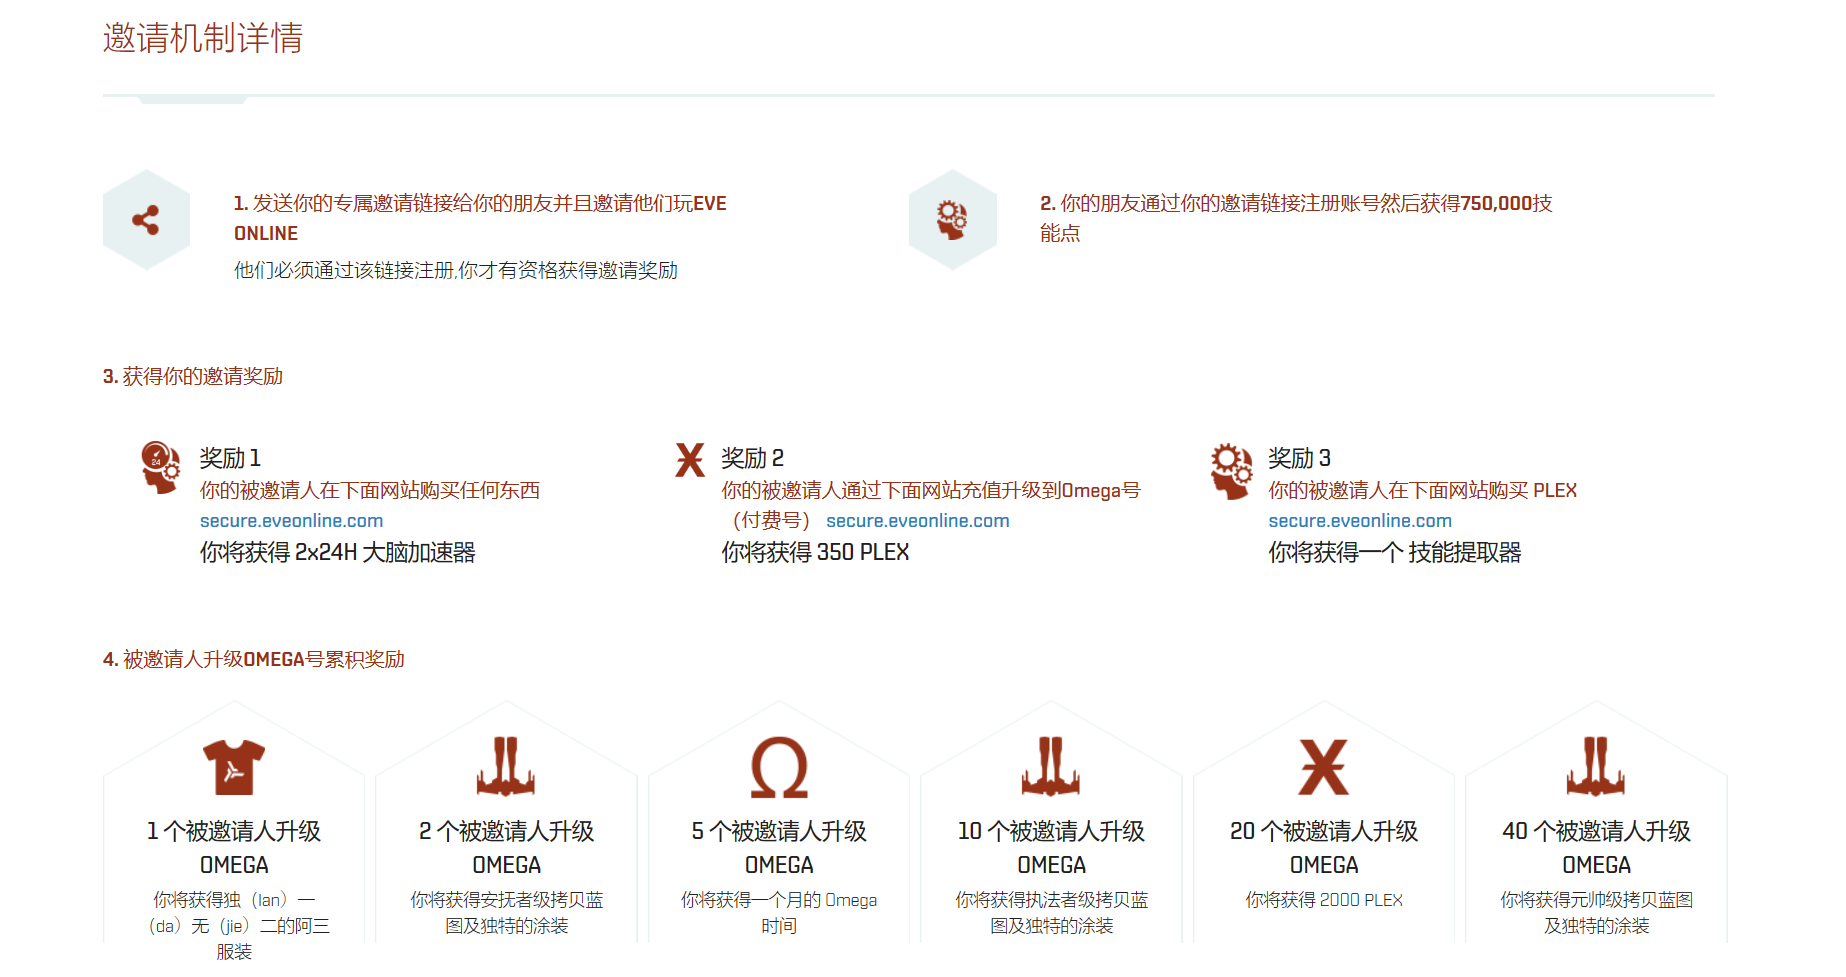
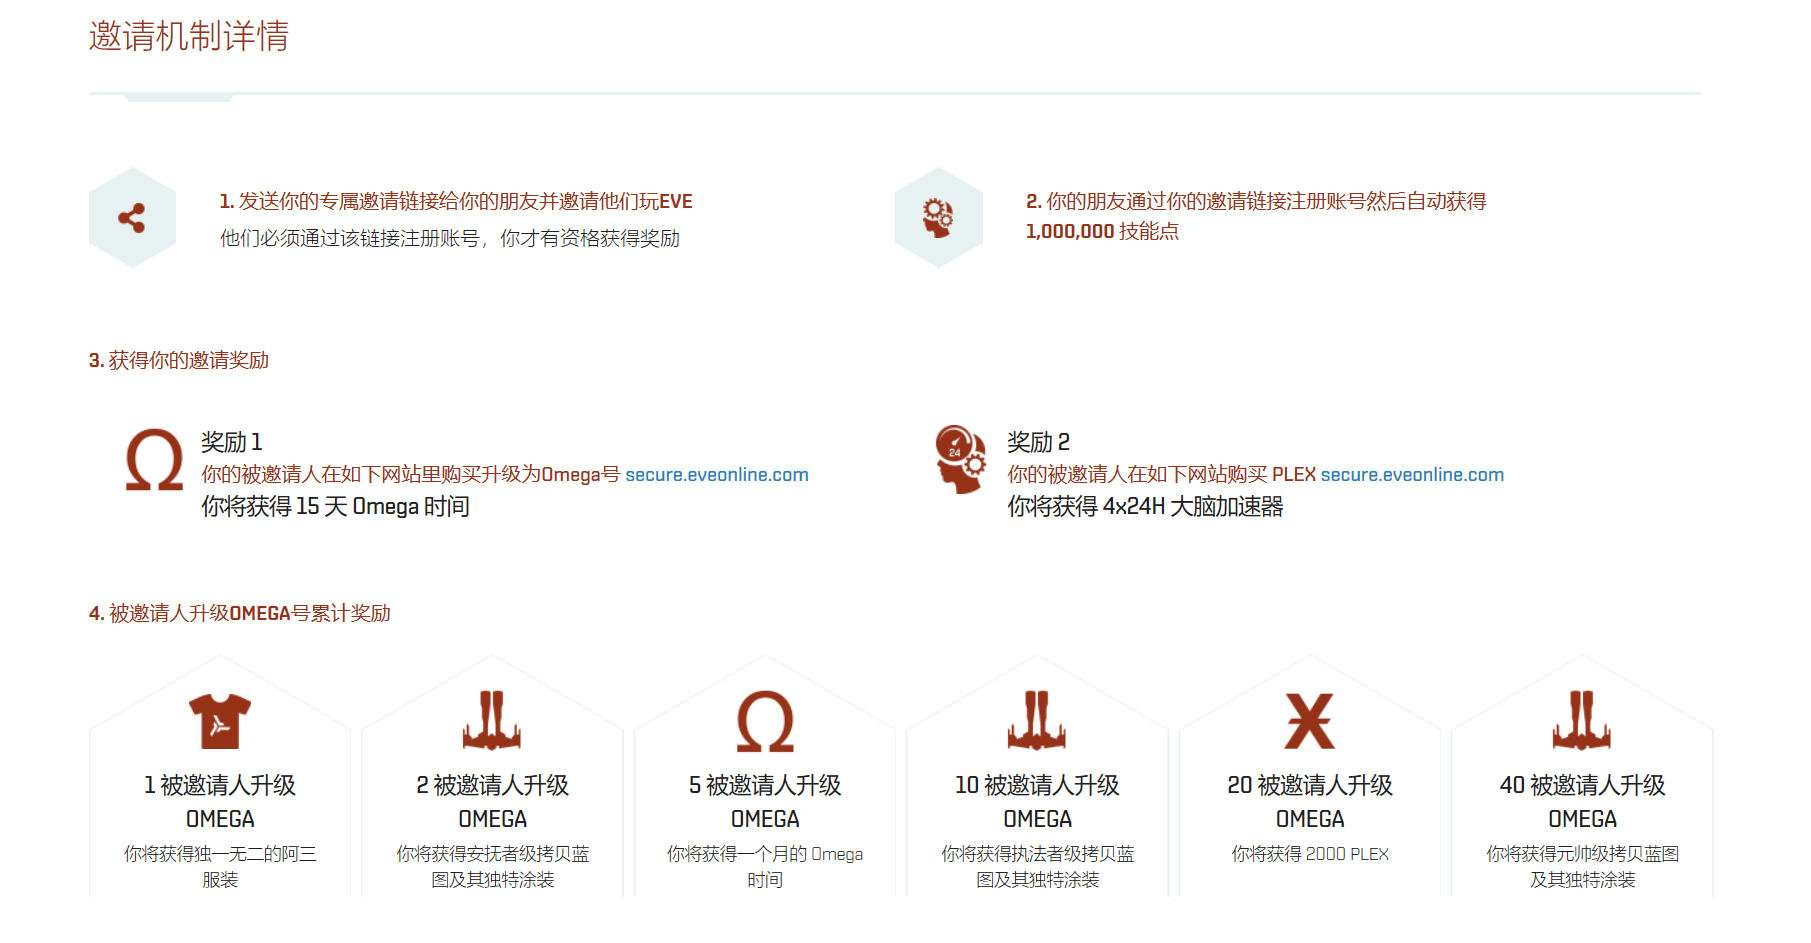
Site updated: 2019-07-31 21:58:43

diff --git a/wwweveonline/index.html b/wwweveonline/index.html
@@ -40,7 +40,7 @@
 
         </div>
         <div class="content markdown">
-            <h4 id="前置提示："><a href="#前置提示：" class="headerlink" title="前置提示："></a>前置提示：</h4><p>官网账号可以用别人的邀请链接进行注册，建号就送75万自由技能点。如果你在 <em>secure.eveonline.com</em> 上氪金，邀请人（给你链接的人）会根据你氪金内容收到大脑加速器、350 PLEX、技能提取器作为奖励。一般情况下，邀请人都会把这些东西全部反回给被邀请人（用别人链接的你），这样你就可以获得一大笔启动资金。详情见官网介绍邀请机制的网页： <em><a href="https://www.eveonline.com/recruit" target="_blank" rel="noopener">https://www.eveonline.com/recruit</a></em> </p>
+            <h4 id="前置提示："><a href="#前置提示：" class="headerlink" title="前置提示："></a>前置提示：</h4><p>官网账号可以用别人的邀请链接进行注册，建号就送100万自由技能点。如果你在 <em>secure.eveonline.com</em> 上氪金，邀请人（给你链接的人）会根据你氪金内容收到15天Omega时间、大脑加速器（视氪金物品而定）作为奖励。一般情况下，邀请人都会把这些东西或者等价ISK返回给被邀请人（用别人链接的你），这样你就可以获得一大笔启动资金。最新详情见官网介绍邀请机制的网页： <em><a href="https://www.eveonline.com/recruit" target="_blank" rel="noopener">https://www.eveonline.com/recruit</a></em> </p>
 <p><img src="/img/邀请机制.png" alt="官网邀请机制详情翻译"></p>
 <p>怎样获得邀请链接？找一些可靠的老玩家要，公司/军团/联盟CEO、<em>EVE欧服吧</em>  大吧主小吧主、EVE相关Q群群主都会提供邀请链接，这些人也比较可靠。使用别人链接注册并在 <em><a href="https://secure.eveonline.com/" target="_blank" rel="noopener">https://secure.eveonline.com/</a></em> 上氪金后，主动去找给你链接的人要奖励，邀请人获得邀请奖励是无法知道是谁氪金所来的，所以你需要主动去要。</p>
 <p>已注册完成的账号不可再用邀请链接，必须在注册前使用，且必须在 <em><a href="https://secure.eveonline.com/" target="_blank" rel="noopener">https://secure.eveonline.com/</a></em> 上氪金才有奖励。</p>

diff --git a/different/index.html b/different/index.html
@@ -53,7 +53,7 @@
 <h4 id="不同点"><a href="#不同点" class="headerlink" title="不同点"></a>不同点</h4><ul>
 <li>官网标准一个月Omega时间14.95美元（官网直接购买）<br><img src="/img/45.png" alt="官网账号时间购买"></li>
 <li>Steam标准一个月Omega时间98人民币(已涨价，58元时代一去不复返)<br><img src="/img/53.png" alt="Steam号时间购买"></li>
-<li>官网号可以用别人的邀请链接进行注册，建号就送75万自由技能点。如果你氪金，邀请人（给你链接的人）会收到350plex、加速器、技能提取器等（视氪金物品而定）作为奖励。一般情况下，邀请人都会把这些东西反回给被邀请人（用别人链接的你），这样你就相当于获得一笔额外启动资金了。</li>
+<li>官网号可以用别人的邀请链接进行注册，建号就送100万自由技能点。如果你氪金，邀请人（给你链接的人）会收到15天Omega时间、大脑加速器等（视氪金物品而定）作为奖励。一般情况下，邀请人都会把这些东西或者等价ISK返回给被邀请人（用别人链接的你），这样你就相当于获得一笔额外启动资金了。</li>
 <li>Steam号不可以用邀请链接，不过月卡比官网便宜一丢丢，氪金方式也方便，氪，往死里氪。</li>
 <li>官网号偶尔会送一次性的月卡优惠券，在官网登录账号后进入账号管理界面，右上角会有个Offers图标，点进去就可以看到优惠（随机送，新号送的概率高）</li>
 <li>…</li>

diff --git a/index.html b/index.html
@@ -133,7 +133,7 @@ EVE的启动...</p>
     <div class="else">
         <p>十一月 17, 2018</p>
         <h3><a href="/wwweveonline/" title="官网注册、下载" class="posttitle">官网注册、下载</a></h3>
-        <p>前置提示：官网账号可以用别人的邀请链接进行注册，建号就送75万自由技能点。如果你在 secure.eveonline.com 上氪金，邀请人（给你链接的人...</p>
+        <p>前置提示：官网账号可以用别人的邀请链接进行注册，建号就送100万自由技能点。如果你在 secure.eveonline.com 上氪金，邀请人（给你链接的...</p>
     </div>
 </div>
 
